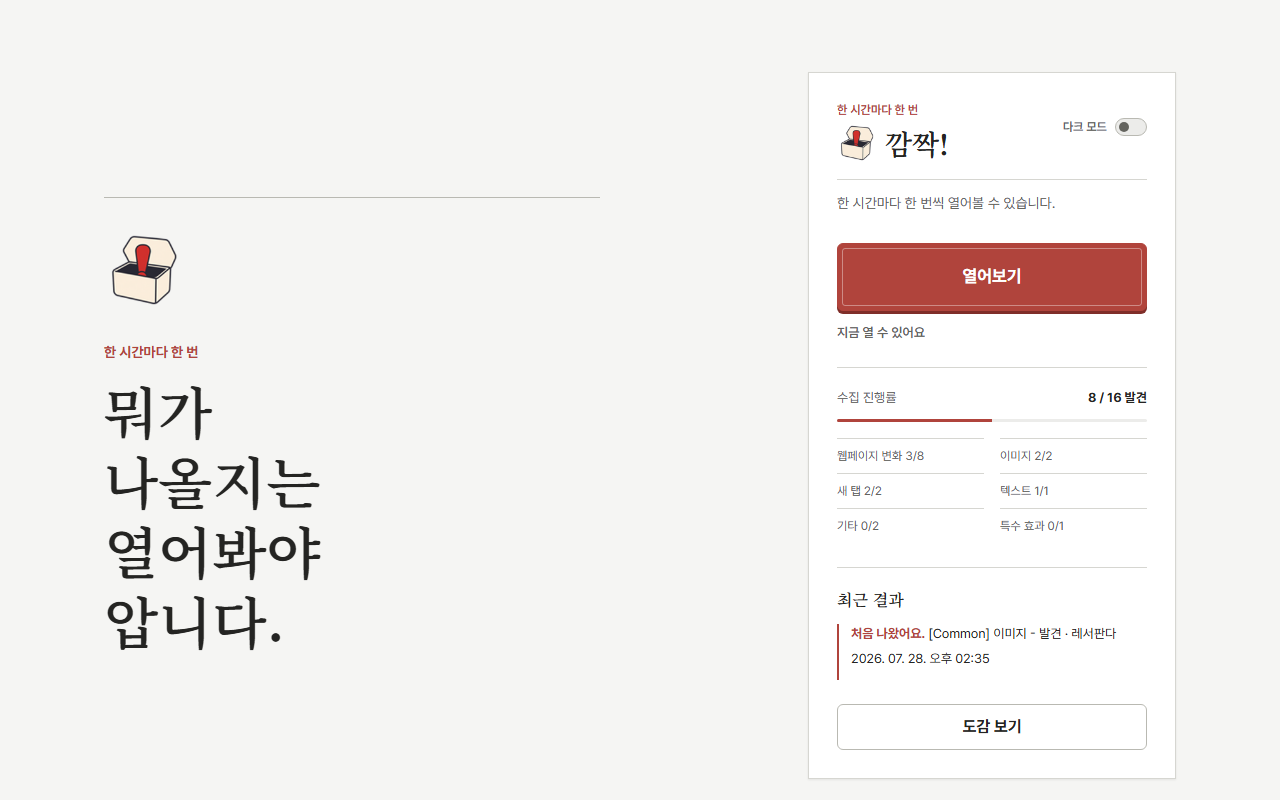
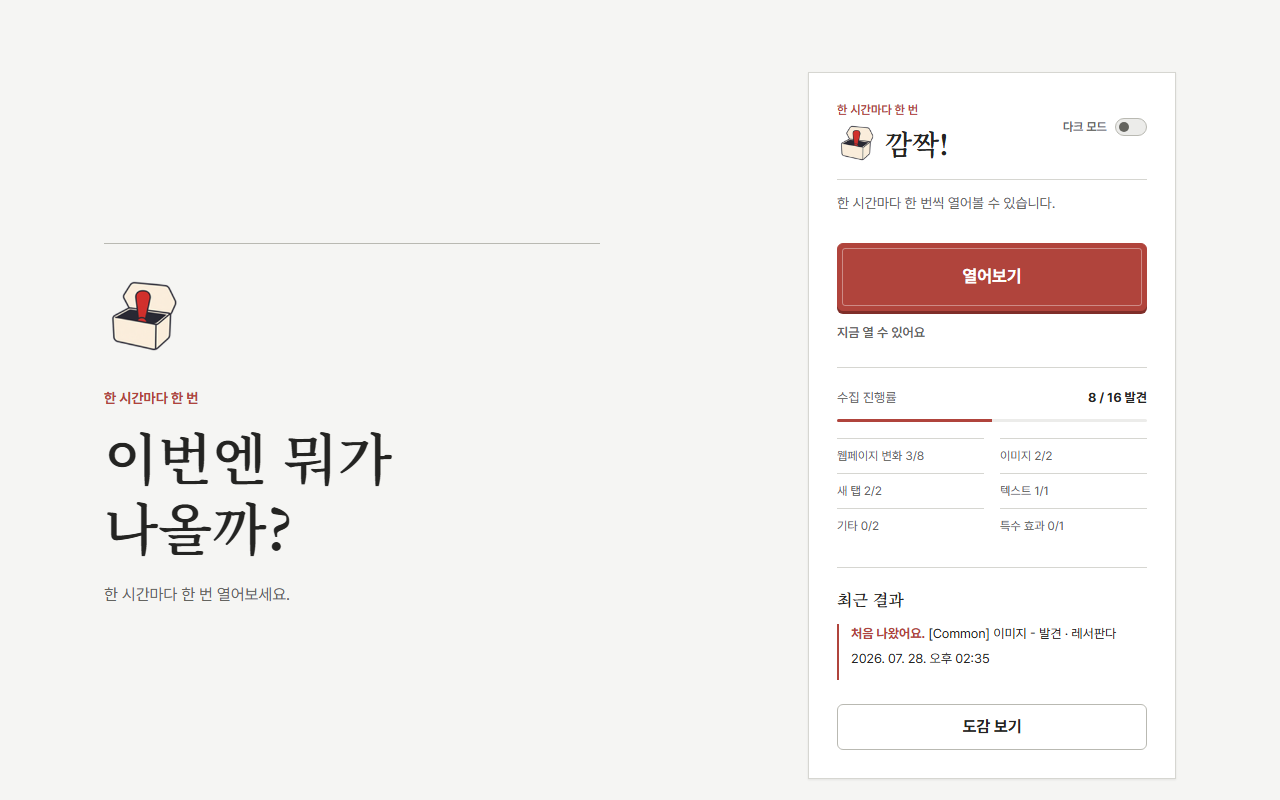
docs: 스토어 소개 문구와 이미지 개선

Changed region(s): [[0.0625, 0.2812, 0.3125, 0.8125]]

diff --git a/docs/store/capture/capture.css b/docs/store/capture/capture.css
@@ -45,6 +45,14 @@ body {
   word-break: keep-all;
 }
 
+.capture-intro .capture-subcopy {
+  max-width: 24rem;
+  margin-top: var(--space-5);
+  color: var(--color-muted);
+  font-size: 1rem;
+  line-height: 1.7;
+}
+
 .capture-popup .popup-shell {
   width: 23rem;
   border: 1px solid var(--color-border);
@@ -71,10 +79,13 @@ body {
 }
 
 .capture-promo p {
-  margin: 0 0 var(--space-2);
+  max-width: 15rem;
+  margin: var(--space-3) 0 0;
   color: var(--color-accent);
-  font-size: 0.875rem;
+  font-size: 0.8125rem;
   font-weight: 650;
+  line-height: 1.5;
+  word-break: keep-all;
 }
 
 .capture-promo h1 {
@@ -85,3 +96,53 @@ body {
   line-height: 1.1;
 }
 
+.capture-discovery-caption {
+  position: absolute;
+  right: 3rem;
+  width: 25rem;
+  padding-top: var(--space-6);
+  border-top: 1px solid var(--color-border-strong);
+}
+
+.capture-discovery-caption h2,
+.capture-scene-caption h2 {
+  margin: 0;
+  font-family: var(--font-serif);
+  font-weight: 600;
+  line-height: 1.3;
+  word-break: keep-all;
+}
+
+.capture-discovery-caption h2 {
+  font-size: 2.5rem;
+}
+
+.capture-discovery-caption p,
+.capture-scene-caption p {
+  margin: var(--space-3) 0 0;
+  line-height: 1.7;
+  word-break: keep-all;
+}
+
+.capture-discovery-caption p {
+  color: var(--color-muted);
+}
+
+.capture-scene-caption {
+  position: fixed;
+  z-index: 3;
+  top: 3.5rem;
+  left: 4rem;
+  max-width: 42rem;
+  color: #242422;
+  text-shadow: 0 1px 5px rgba(255, 255, 255, 0.9);
+}
+
+.capture-scene-caption h2 {
+  font-size: 2rem;
+}
+
+.capture-scene-caption p {
+  font-size: 0.9375rem;
+  font-weight: 600;
+}

diff --git a/docs/store/capture/collection.html b/docs/store/capture/collection.html
@@ -6,6 +6,7 @@
     <title>깜짝! 도감 스토어 캡처</title>
     <link rel="stylesheet" href="/styles/tokens.css">
     <link rel="stylesheet" href="/pages/collection/collection.css">
+    <link rel="stylesheet" href="capture.css">
     <script src="seed-data.js"></script>
     <script src="mock-extension.js"></script>
   </head>
@@ -67,6 +68,11 @@
       </div>
     </main>
 
+    <aside id="captureDiscoveryCaption" class="capture-discovery-caption" hidden>
+      <h2>오늘은 누굴 만날까?</h2>
+      <p>아직 만나지 못한 친구들도 기다리고 있습니다.</p>
+    </aside>
+
     <script type="module" src="/pages/collection/collection.js"></script>
     <script type="module">
       const view = new URLSearchParams(location.search).get("view");
@@ -84,6 +90,9 @@
             const top = section.getBoundingClientRect().top + window.scrollY - 24;
             document.documentElement.style.overflow = "hidden";
             document.body.style.transform = `translateY(-${Math.max(0, top)}px)`;
+            const caption = document.querySelector("#captureDiscoveryCaption");
+            caption.hidden = false;
+            caption.style.top = `${Math.max(0, top) + 470}px`;
           }, 300);
         }
       }, 50);

diff --git a/docs/store/capture/scene.html b/docs/store/capture/scene.html
@@ -6,6 +6,7 @@
     <title>깜짝! 랜선 여행 스토어 캡처</title>
     <link rel="stylesheet" href="/styles/tokens.css">
     <link rel="stylesheet" href="/pages/event/event.css">
+    <link rel="stylesheet" href="capture.css">
     <script src="mock-extension.js"></script>
   </head>
   <body>
@@ -25,6 +26,11 @@
       <div id="oracleBox" class="oracle-box"></div>
       <button id="closeButton" type="button">원래 탭으로 돌아가기</button>
     </main>
+
+    <aside class="capture-scene-caption">
+      <h2>휴식을 위한 자연으로의 외출</h2>
+      <p>자연으로 초대하기도 합니다.</p>
+    </aside>
 
     <script type="module" src="/pages/event/event.js"></script>
   </body>

diff --git a/docs/store/capture/popup.html b/docs/store/capture/popup.html
@@ -14,7 +14,8 @@
     <section class="capture-intro" aria-label="깜짝! 소개">
       <img src="/assets/icons/icon128.png" width="128" height="128" alt="">
       <p>한 시간마다 한 번</p>
-      <h2>뭐가 나올지는 열어봐야 압니다.</h2>
+      <h2>이번엔 뭐가 나올까?</h2>
+      <div class="capture-subcopy">한 시간마다 한 번 열어보세요.</div>
     </section>
 
     <main class="popup-shell">
@@ -63,4 +64,3 @@
     <script type="module" src="/pages/popup/popup.js"></script>
   </body>
 </html>
-

diff --git a/docs/store/capture/promo.html b/docs/store/capture/promo.html
@@ -11,8 +11,8 @@
     <main class="capture-promo">
       <img src="/assets/icons/icon128.png" width="128" height="128" alt="">
       <div>
-        <p>한 시간마다 한 번</p>
         <h1>깜짝!</h1>
+        <p>한 시간에 한 번 만나보는 재밌는 현상들</p>
       </div>
     </main>
   </body>
